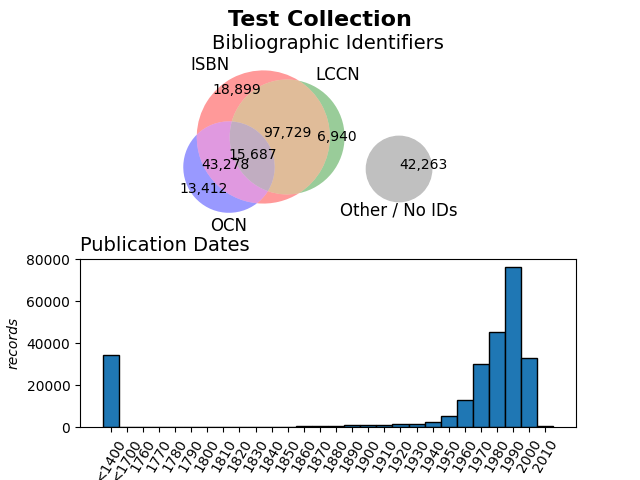
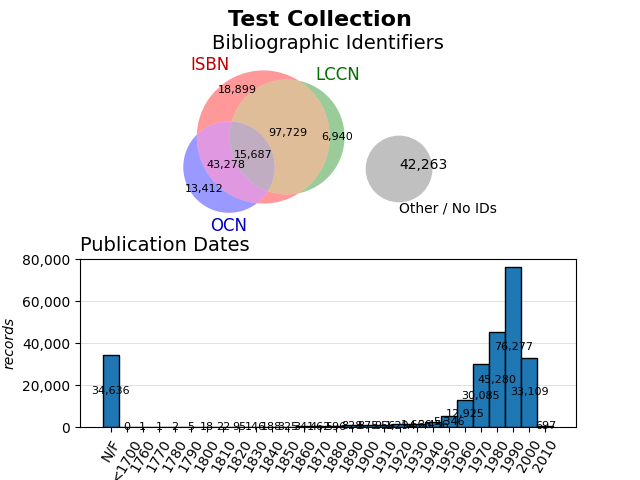
tweaks to Venn3
* decrease value size
* color identifer labels R/G/B
* left align 'Other' category to prevent overlaps

diff --git a/plotMARC.py b/plotMARC.py
@@ -170,22 +170,41 @@ def plot(name, categories, dates, values=True, other=True, scale=1):
         ax_ids = axes
         ax_dates = None
 
+    colors = ('red', 'green', 'blue') # ISBN, LCCN, OCN
+    label_colors = ('#c00000', '#007000', '#0000c0') # slightly darker
+
+    venn = venn3(
+            subsets=categories[1:],
+            set_labels=('ISBN', 'LCCN', 'OCN'),
+            set_colors=colors,
+            ax=ax_ids,
+            normalize_to=scale,
+            subset_label_formatter=formatter,
+    )
+
+    # Style values
+    for text in venn.subset_labels:
+        if text is not None:
+            text.set_fontsize(8)
+
+    # Style bib. identifier labels
+    for text, c in zip(venn.set_labels, label_colors):
+        if text is not None:
+            text.set_color(c)
+            text.set_fontweight('normal')
+            text.set_fontsize(12)
+
     # Draw an Other/No ID circle, if there are any
     if other and categories[0] > 0:
         noid = categories[0] / sum(categories[1:])
         r = np.sqrt(noid / np.pi)
         x, y = (0.8 + r, -0.2)
         ax_ids.annotate(formatter(categories[0]), xy=(min(2, x), max(-0.5, y)))
-        ax_ids.annotate(ID_CATS[0], xy=(min(2, x), max(-0.5, y - r)), fontsize=12, ha='center', va='top')
+        ax_ids.annotate(ID_CATS[0], xy=(min(2, x), max(-0.5, y - r)), fontsize=10, ha='left', va='top')
+
         circle = plt.Circle((x, y), r, color='silver')
         ax_ids.add_patch(circle)
 
-    venn = venn3(
-            subsets=categories[1:],
-            set_labels=('ISBN', 'LCCN', 'OCN'),
-            ax=ax_ids,
-            normalize_to=scale,
-            subset_label_formatter=formatter)
 
     plt.suptitle(name, fontsize=16, fontweight='bold')
     ax_ids.set_title(I_LABEL, fontsize=14)
@@ -200,7 +219,7 @@ def plot(name, categories, dates, values=True, other=True, scale=1):
         axes[1].yaxis.set_major_formatter(StrMethodFormatter('{x:,.0f}'))
         axes[1].grid(axis='y', which='major', color='lightgrey', linewidth=0.5)
         axes[1].set_axisbelow(True)  # gridlines _behind_ bars
-        axes[1].bar_label(bars, labels=[f'{v:,.0f}' for v in bars.datavalues], label_type='center')
+        axes[1].bar_label(bars, labels=[f'{v:,.0f}' for v in bars.datavalues], label_type='center', fontsize=8)
 
     outfile = f'{name}.png'
     print(f'Writing image output to "{outfile}"')
